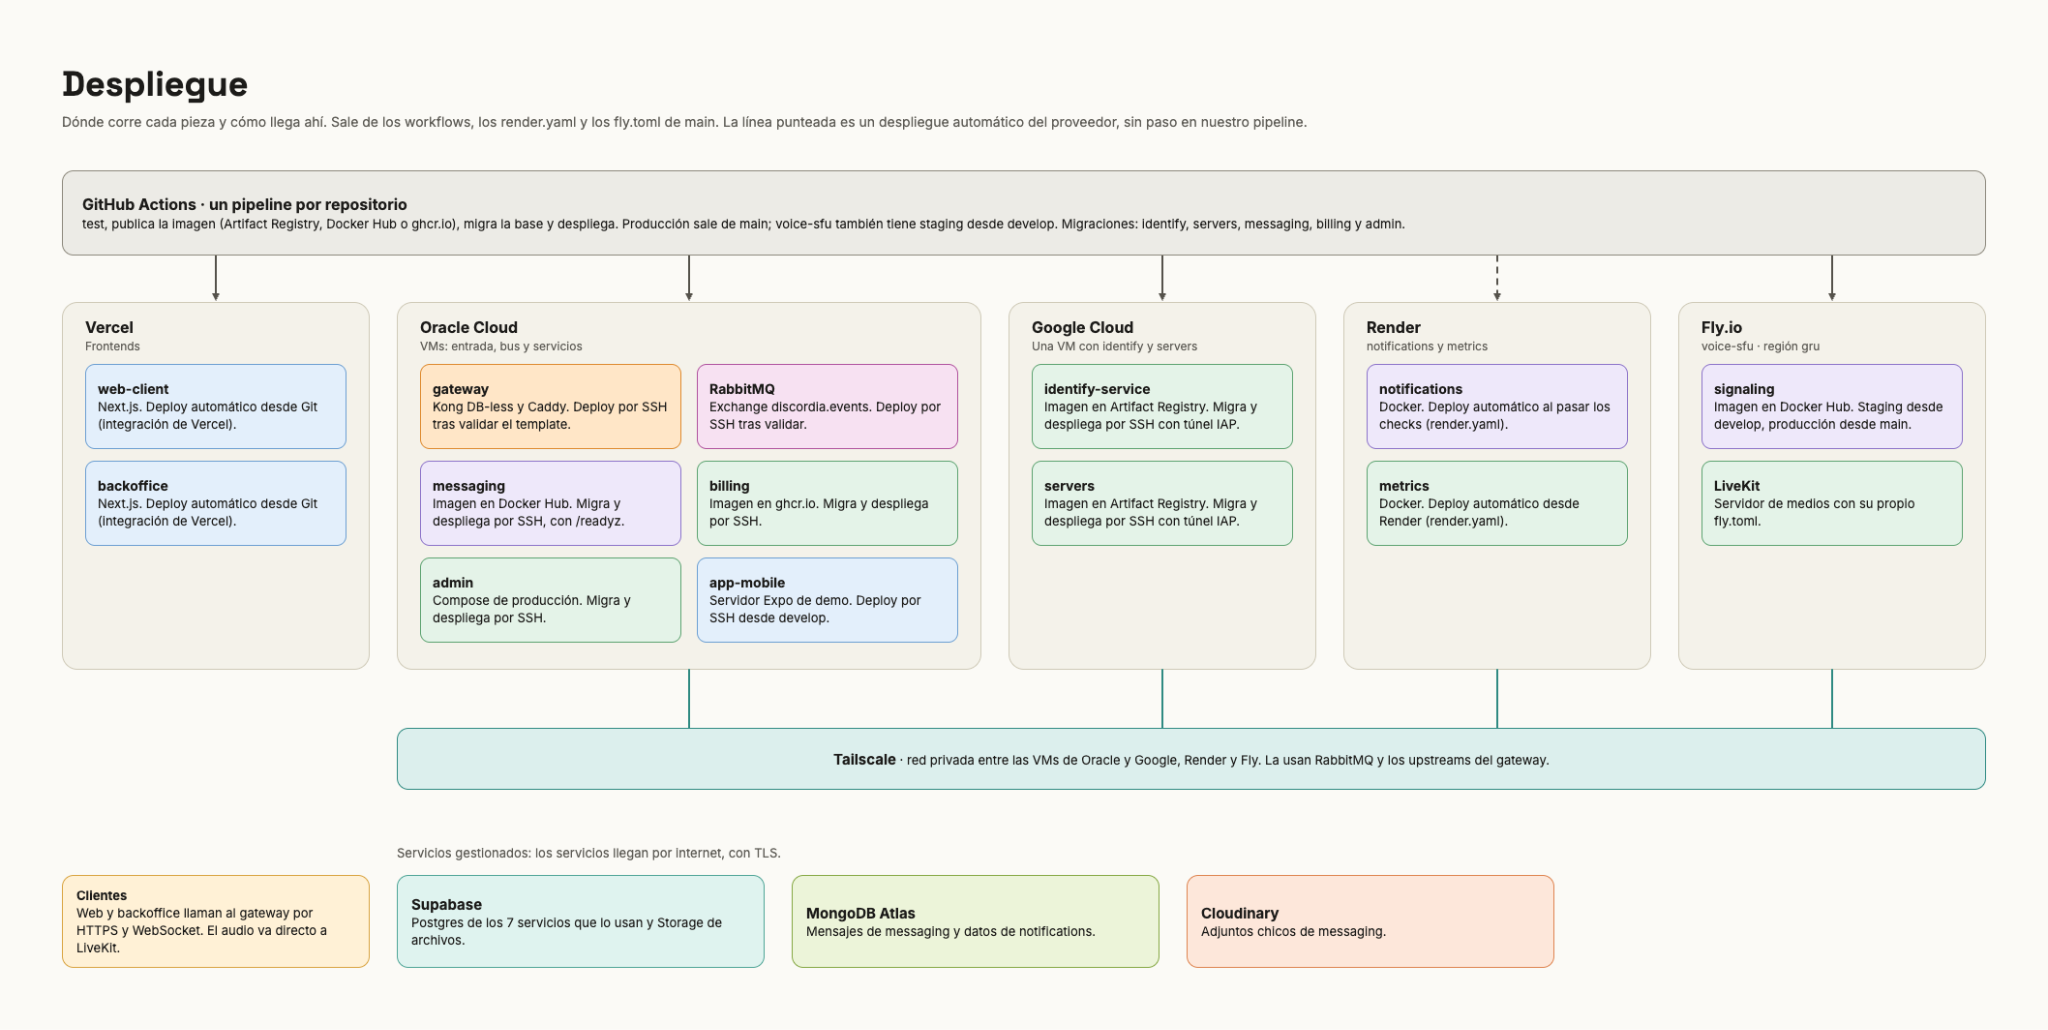
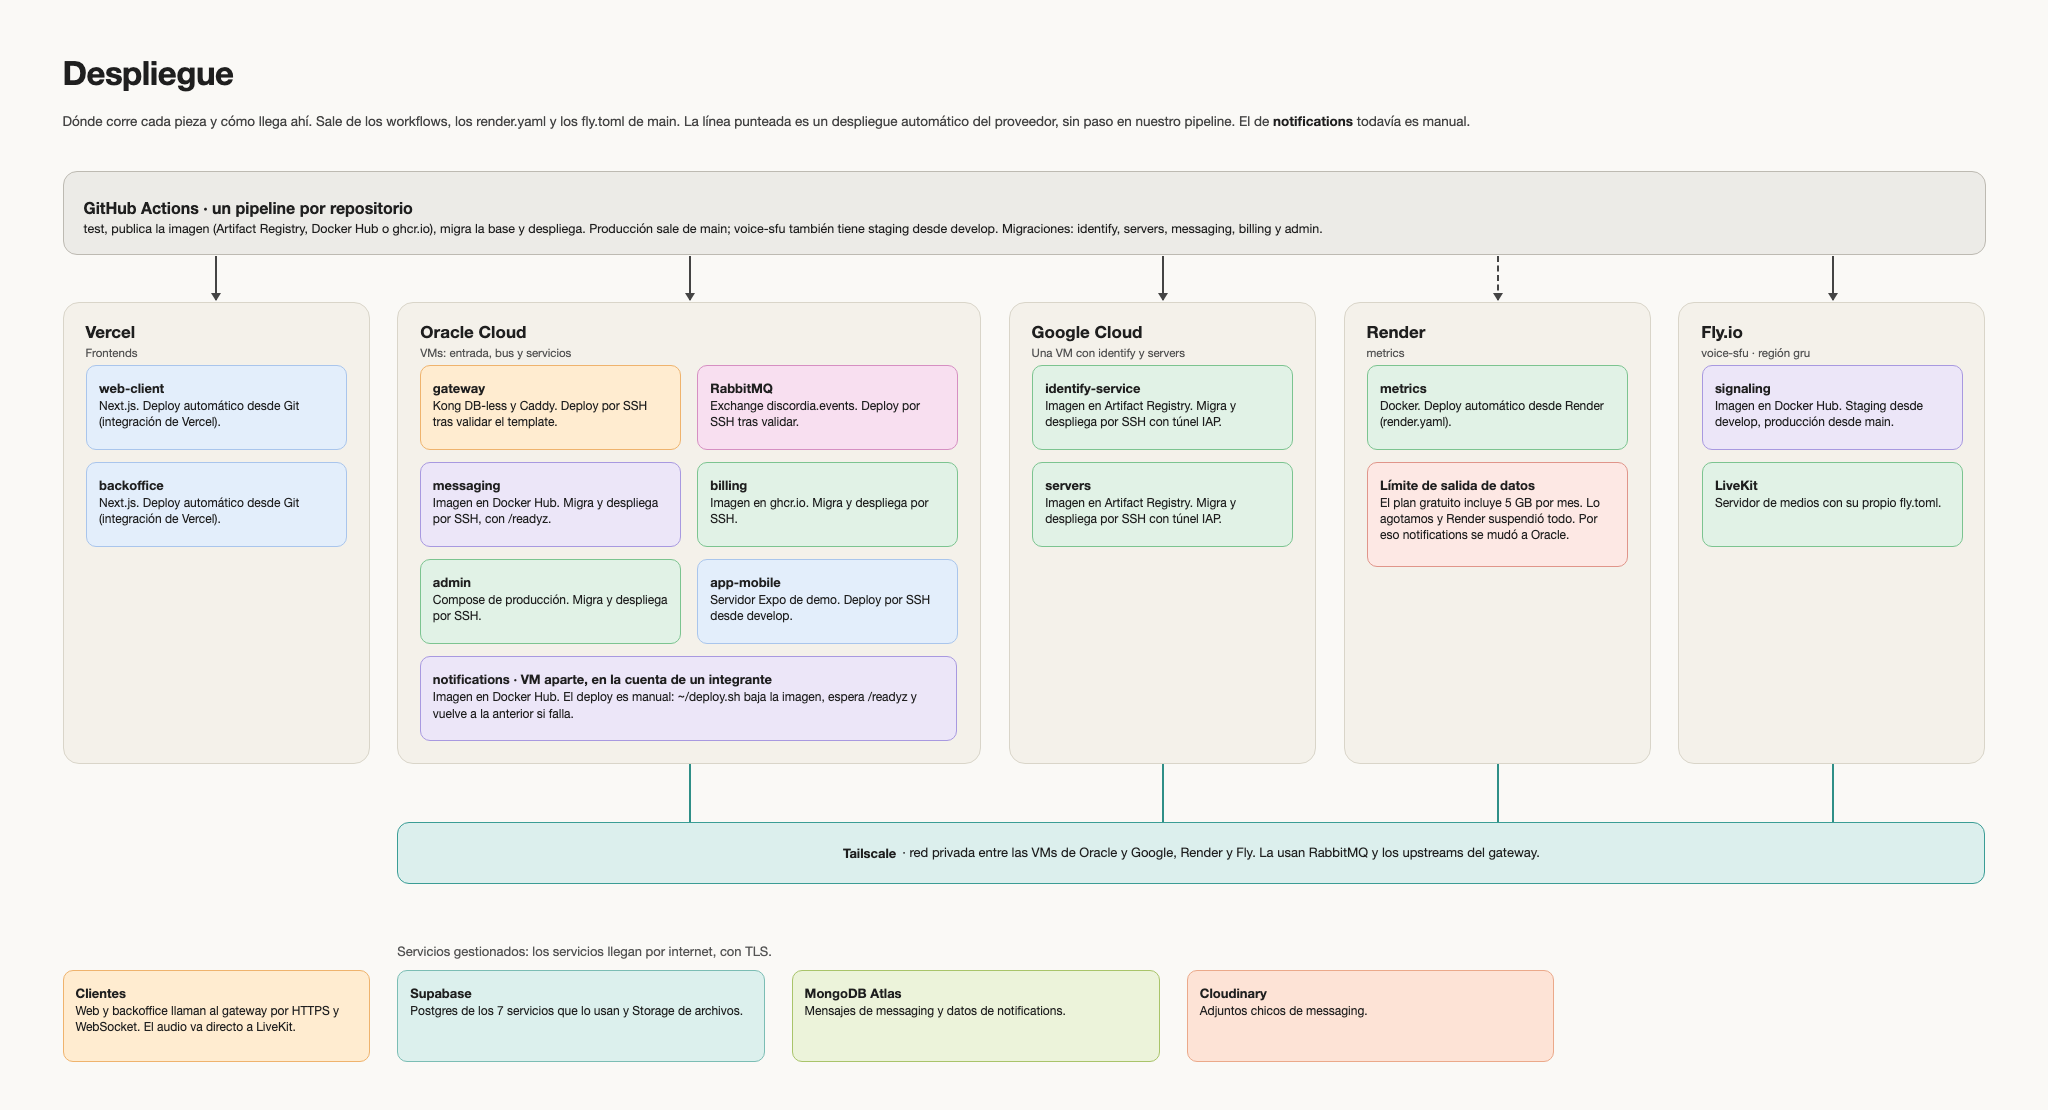
[docs] update ADR-034 and the deployment diagram after moving notifications to Oracle

diff --git a/adr/034-donde-corre-cada-servicio.md b/adr/034-donde-corre-cada-servicio.md
@@ -1,7 +1,7 @@
 # ADR-034: Dónde corre cada servicio y cómo se despliega
 
 **Estado:** Aceptada
-**Fecha:** 2026-11-18
+**Fecha:** 2026-11-18, actualizada el 2026-11-20 (`notifications` pasó de Render a Oracle)
 **Servicios:** todos, con `rabbit-mq`, `gateway` e `infrastructure`
 **Relacionadas:** ADR-004 (bases de datos), ADR-006 (API Gateway), ADR-007 (pub/sub), ADR-009 (archivos), ADR-023 (observabilidad), ADR-036 (CI/CD)
 
@@ -15,9 +15,9 @@ Repartimos las piezas entre varias plataformas gratuitas, aprovechando lo que of
 
 | Plataforma | Qué corre ahí | Ventajas | Desventajas |
 |---|---|---|---|
-| Oracle Cloud | `gateway`, `rabbit-mq`, `messaging`, `billing`, `admin` y el servidor de desarrollo de la app | 2 VMs gratis y siempre gratis (*always free*) | Su política detecta el uso de varias cuentas o el uso indebido, y puede suspenderlas |
+| Oracle Cloud | `gateway`, `rabbit-mq`, `messaging`, `billing`, `admin`, `notifications` y el servidor de desarrollo de la app | 2 VMs gratis y siempre gratis (*always free*) por cuenta | Su política detecta el uso de varias cuentas o el uso indebido, y puede suspenderlas. `notifications` corre en una VM aparte, creada en la cuenta de un integrante del equipo |
 | Google Cloud | `identify-service` y `servers` | 1 VM gratis y siempre gratis | Para tener más capacidad hay que crear muchas cuentas |
-| Render | `notifications` y `metrics` | 1 servicio gratis y siempre gratis | Se duerme por inactividad; lo evitamos haciéndole un ping periódico a `/health` |
+| Render | `metrics` | 1 servicio gratis y siempre gratis | Se duerme por inactividad; lo evitamos haciéndole un ping periódico a `/health`. Además incluye solo 5 GB de salida de datos por mes, y al pasarse suspende todos los servicios hasta el mes siguiente (ver Consecuencias) |
 | Fly.io | `voice-sfu` (señalización) y LiveKit | 1 máquina gratis y siempre gratis | |
 | Vercel | `web-client` y `backoffice` | Gratis para siempre | El plan gratuito no permite uso de producción real |
 | Supabase | Bases de Postgres y almacenamiento de archivos | 2 proyectos gratis para siempre, con 1 GB por proyecto | Solo dos proyectos, así que compartimos uno con un schema por servicio (ADR-004) |
@@ -25,9 +25,9 @@ Repartimos las piezas entre varias plataformas gratuitas, aprovechando lo que of
 | Cloudinary | Adjuntos chicos | Plan gratuito con entrega por CDN | Tope de 10 MB por archivo (ADR-009) |
 | New Relic | Trazas, métricas y logs | 100 GB de ingesta al mes gratis, sin vencimiento | Al pasar el límite deja de recibir datos hasta el mes siguiente (ADR-023) |
 
-La app móvil se publica con Expo. Los servicios de las VMs se despliegan con Docker. Al llegar un cambio a `main` y pasar el CI, un workflow entra por SSH a la VM y actualiza el contenedor; en el caso de `rabbit-mq` hace `git pull` y `docker compose up -d`. `notifications` y `metrics` en Render se despliegan solos cuando pasan los checks, y la web en Vercel con cada cambio.
+La app móvil se publica con Expo. Los servicios de las VMs se despliegan con Docker. Al llegar un cambio a `main` y pasar el CI, un workflow entra por SSH a la VM y actualiza el contenedor; en el caso de `rabbit-mq` hace `git pull` y `docker compose up -d`. `metrics` en Render se despliega solo cuando pasa los checks, y la web en Vercel con cada cambio. `notifications` publica su imagen en Docker Hub al llegar a `main`, pero el despliegue en su VM todavía es manual: se corre `~/deploy.sh` con la imagen nueva, que baja el contenedor, espera a que `/readyz` responda y vuelve a la versión anterior si falla.
 
-RabbitMQ lo operamos nosotros, en la VM de Oracle y con su propio volumen, en lugar de usar un servicio administrado (ADR-007). Los servicios que están en otras plataformas, como `notifications` en Render, llegan a él a través de Tailscale, con un puente local en el contenedor. El puerto de administración queda publicado solo en la propia VM.
+RabbitMQ lo operamos nosotros, en la VM de Oracle y con su propio volumen, en lugar de usar un servicio administrado (ADR-007). Los servicios que están en otras plataformas, como `metrics` en Render y `notifications` en su VM aparte, llegan a él a través de Tailscale, con un puente local en el contenedor. El puerto de administración queda publicado solo en la propia VM.
 
 ## Alternativas descartadas
 
@@ -44,3 +44,7 @@ Cada pieza corre donde mejor encaja y el costo es nulo, y si una plataforma fall
 A cambio, hay mucha superficie para operar: varias cuentas, credenciales y mecanismos de despliegue distintos, y si una plataforma cambia o quita su plan gratuito hay que mover los servicios. Dependemos además de las condiciones de cada una: Oracle puede suspender una cuenta que su política considere sospechosa, Render duerme el servicio si deja de recibir pedidos, y Vercel no permite el plan gratuito para producción real, lo que es una condición que hoy aceptamos para un proyecto académico. La red entre plataformas es la pública, con HTTPS, salvo RabbitMQ, que va por Tailscale. Y que RabbitMQ lo mantengamos nosotros nos obliga a cuidar su configuración.
 
 En noviembre de 2026 lo comprobamos de la peor manera: cambiar el `healthcheck` del `docker-compose.yml` hizo que Compose recreara el contenedor, y como RabbitMQ toma el nombre de su nodo del hostname del contenedor, arrancó como un nodo nuevo, sin el usuario que usaban varios servicios ni las colas. `messaging`, `notifications`, `voice-sfu`, `metrics` y `billing` quedaron unas 30 horas sin conectarse, mientras los otros servicios seguían funcionando. Lo resolvimos fijando el hostname del nodo original en `docker-compose.yml` y documentando por qué no hay que cambiarlo. Siguen pendientes una alerta por conexiones fallidas y un chequeo después de cada despliegue que verifique que existan el usuario y las colas.
+
+El 20 de noviembre de 2026 encontramos otra desventaja de Render que no habíamos previsto: el plan gratuito incluye solo 5 GB de salida de datos por mes y por workspace. Los consumimos antes de fin de mes y Render suspendió todos los servicios del workspace, `notifications` y `metrics`, hasta que el cupo se renueve. Por eso se quedaron sin funcionar los avisos push, los no leídos y las métricas del backoffice. Casi todo ese tráfico no eran respuestas a los usuarios, que sumaron unos 36 MB, sino conexiones que los propios servicios inician hacia afuera, y la salida de `notifications` era pareja a lo largo del día aunque nadie la usara. No encontramos qué la genera. Mirábamos las horas de instancia y la memoria, pero no el ancho de banda, y es un límite que solo aparece cuando ya se cumplió.
+
+Lo resolvimos moviendo `notifications` a una VM de Oracle, donde no hay un tope de salida que nos alcance, con la imagen publicada en Docker Hub como la de `messaging`. `metrics` sigue en Render y vuelve cuando se renueve el cupo, el 1 de diciembre. Quedan pendientes averiguar qué genera ese tráfico, una alerta antes de llegar al límite, y automatizar el despliegue de `notifications`, que hoy es manual.
